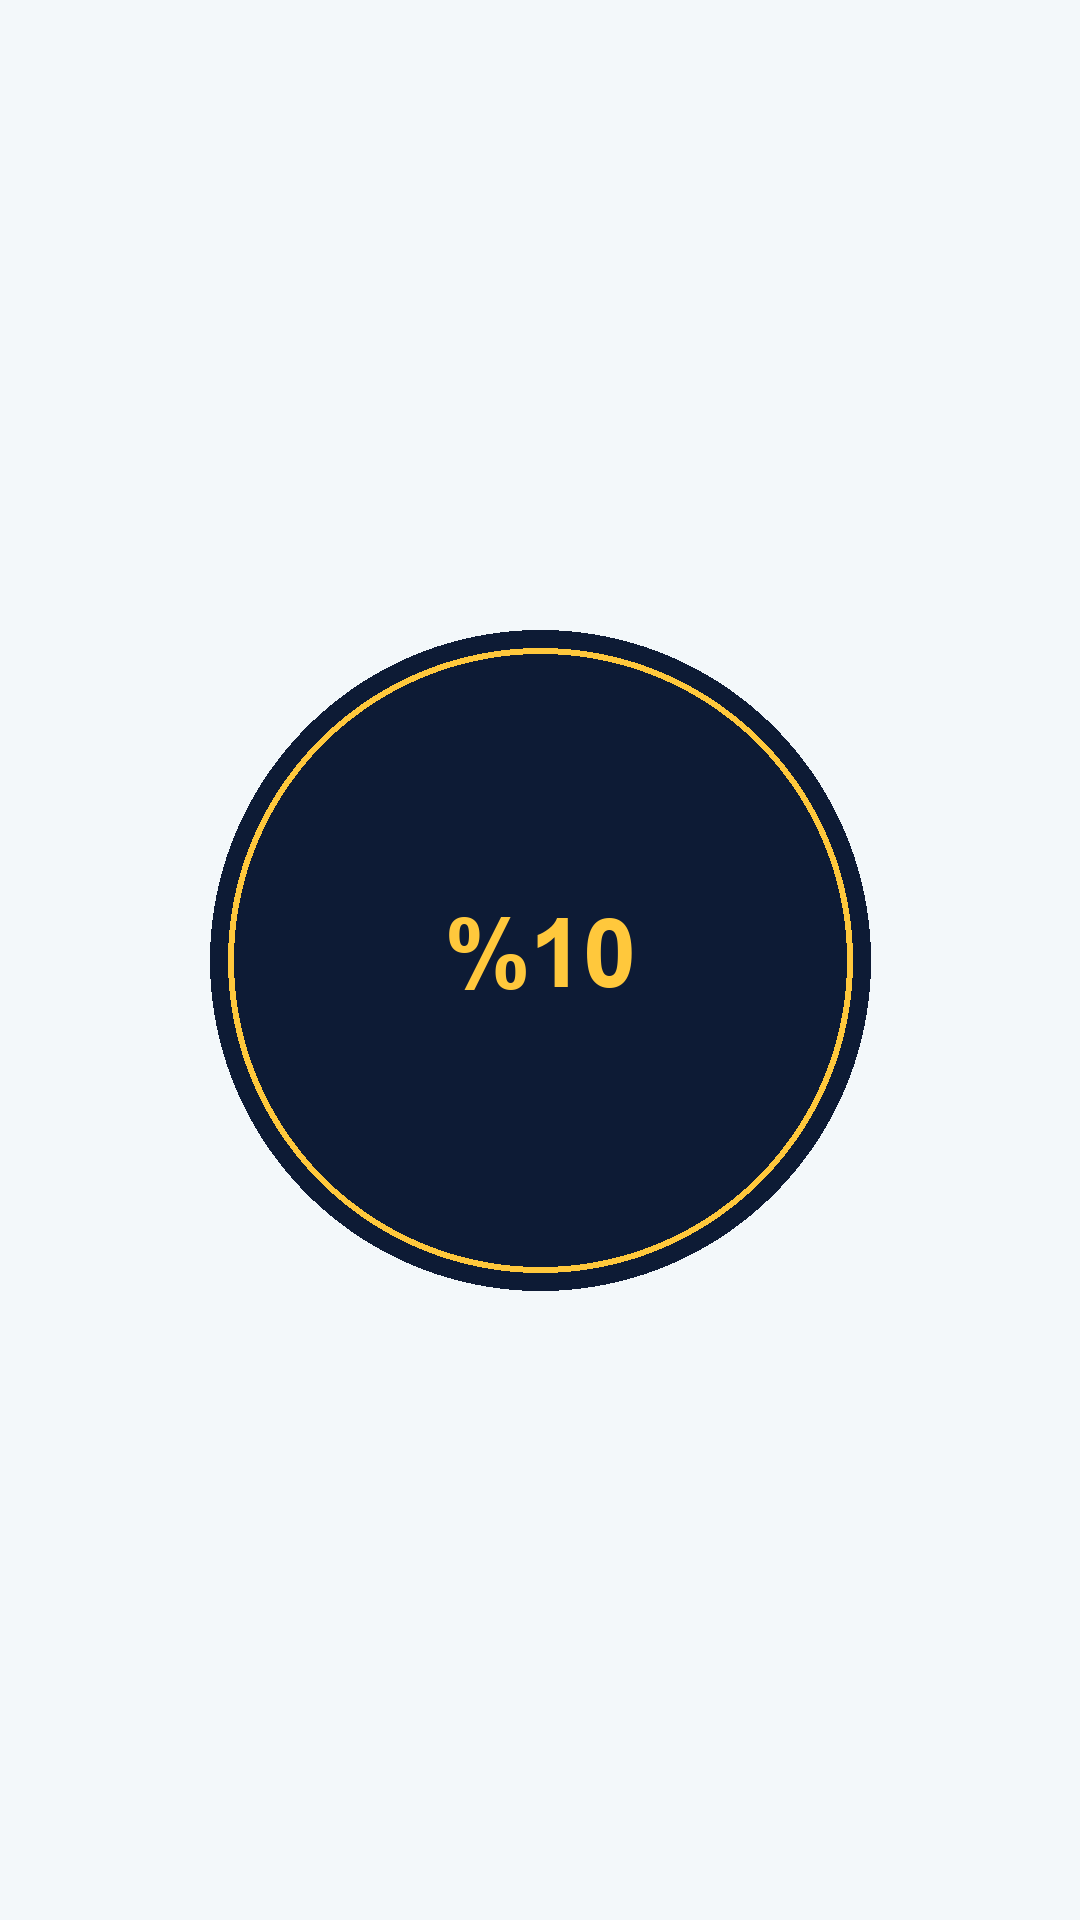
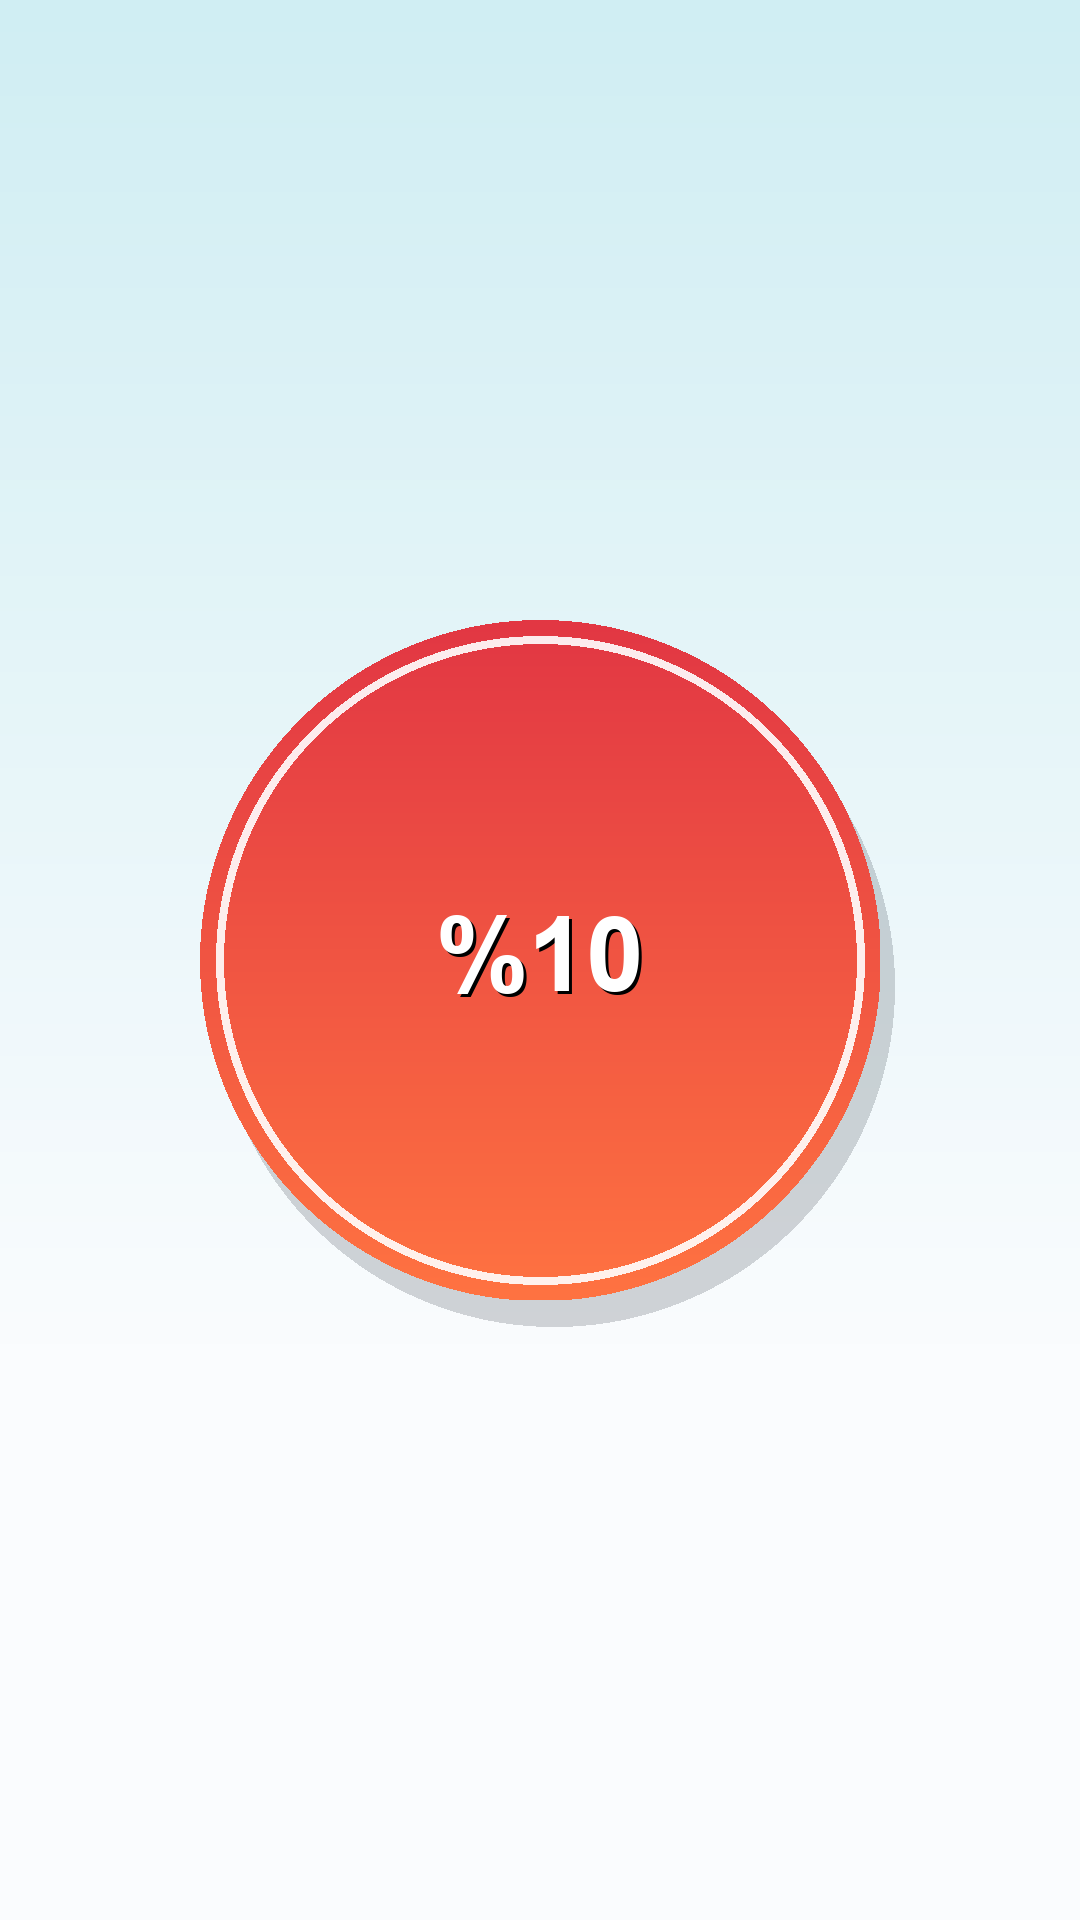
feat: one cikarilan kapaklari canli kategori renkleriyle yenilendi

diff --git a/tools/urun_hikaye_uret.py b/tools/urun_hikaye_uret.py
@@ -96,12 +96,12 @@ HIKAYELER = [
 
 # Öne çıkarılan kapak görselleri (telefon galerisinden kapak seçmek için)
 KAPAKLAR = [
-    ("kapak-setler", "SET"),
-    ("kapak-robotik", "ROBOT"),
-    ("kapak-defterler", "DEFTER"),
-    ("kapak-yorumlar", "YORUM"),
-    ("kapak-kampanya", "%10"),
-    ("kapak-siparis", "SİPARİŞ"),
+    ("kapak-setler", "SET", (0, 150, 136), (0, 200, 178)),
+    ("kapak-robotik", "ROBOT", (255, 106, 40), (255, 160, 70)),
+    ("kapak-defterler", "DEFTER", (40, 160, 75), (90, 205, 125)),
+    ("kapak-yorumlar", "YORUM", (235, 160, 15), (255, 205, 70)),
+    ("kapak-kampanya", "%10", (226, 55, 68), (255, 115, 65)),
+    ("kapak-siparis", "SİPARİŞ", (23, 110, 200), (70, 165, 245)),
 ]
 
 
@@ -193,19 +193,40 @@ def hikaye(h):
     print("✅", yol)
 
 
-def kapak(slug, etiket):
-    """Koyu lacivert daireli kapak — IG öne çıkarılan kapağı ortadan kırpar."""
-    img = Image.new("RGB", (W, H), (243, 248, 250))
+def kapak(slug, etiket, renk1, renk2):
+    """Canlı, kategori renkli kapak — IG öne çıkarılan kapağı ortadan kırpar."""
+    img = Image.new("RGB", (W, H), GRADYAN_ALT)
     d = ImageDraw.Draw(img, "RGBA")
-    r = 330
+    # zemin: acik turkuaz gradyan (hikayelerle ayni aile)
+    for y in range(H):
+        t = min(1.0, y / (H * 0.7))
+        renk = tuple(int(GRADYAN_UST[i] + (GRADYAN_ALT[i] - GRADYAN_UST[i]) * t)
+                     for i in range(3))
+        d.line([(0, y), (W, y)], fill=renk)
+    # ortada dikey gradyanli dolu renk dairesi
+    r = 340
     cx, cy = W // 2, H // 2
-    d.ellipse([cx - r, cy - r, cx + r, cy + r], fill=(13, 27, 53))
-    d.ellipse([cx - r + 18, cy - r + 18, cx + r - 18, cy + r - 18],
-              outline=(255, 200, 60), width=6)
-    boy = 96 if len(etiket) <= 5 else 72
+    daire = Image.new("RGB", (2 * r, 2 * r))
+    dd = ImageDraw.Draw(daire)
+    for yy in range(2 * r):
+        t = yy / (2 * r)
+        dd.line([(0, yy), (2 * r, yy)],
+                fill=tuple(int(renk1[i] + (renk2[i] - renk1[i]) * t) for i in range(3)))
+    maske = Image.new("L", (2 * r, 2 * r), 0)
+    ImageDraw.Draw(maske).ellipse([0, 0, 2 * r, 2 * r], fill=255)
+    # yumusak golge
+    d.ellipse([cx - r + 14, cy - r + 26, cx + r + 14, cy + r + 26],
+              fill=(11, 20, 32, 45))
+    img.paste(daire, (cx - r, cy - r), maske)
+    # ince beyaz halka
+    d.ellipse([cx - r + 16, cy - r + 16, cx + r - 16, cy + r - 16],
+              outline=(255, 255, 255, 230), width=8)
+    boy = 104 if len(etiket) <= 5 else 76
     f = _bold(boy)
     tw = d.textlength(etiket, font=f)
-    d.text((cx - tw / 2, cy - boy * 0.62), etiket, font=f, fill=(255, 200, 60))
+    d.text((cx - tw / 2 + 3, cy - boy * 0.62 + 3), etiket, font=f,
+           fill=(0, 0, 0, 60))
+    d.text((cx - tw / 2, cy - boy * 0.62), etiket, font=f, fill=(255, 255, 255))
     yol = os.path.join(CIKTI, f"hikaye-{slug}.png")
     img.save(yol)
     print("✅", yol)
@@ -215,5 +236,5 @@ if __name__ == "__main__":
     os.makedirs(CIKTI, exist_ok=True)
     for h in HIKAYELER:
         hikaye(h)
-    for slug, etiket in KAPAKLAR:
-        kapak(slug, etiket)
+    for slug, etiket, r1, r2 in KAPAKLAR:
+        kapak(slug, etiket, r1, r2)
